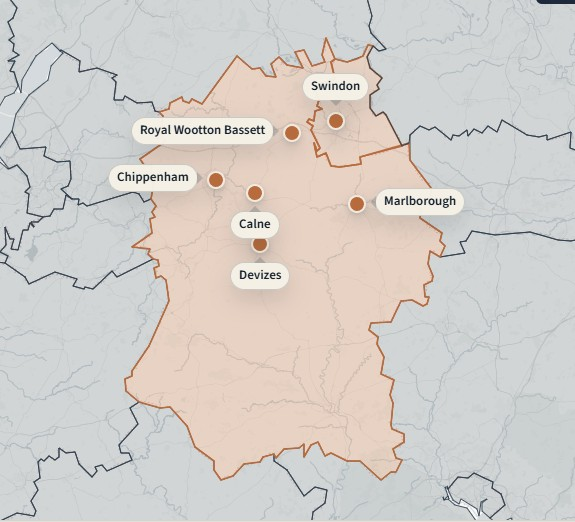
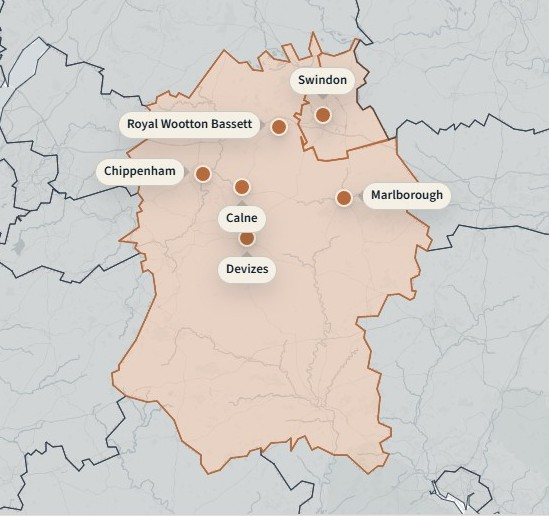
images

diff --git a/sites/lee-morgan-heating-and-plumbing-ltd/css/styles.css b/sites/lee-morgan-heating-and-plumbing-ltd/css/styles.css
@@ -625,8 +625,9 @@ body.nav-open .nav-drawer {
 }
 .coverage-media img {
   width: 100%;
-  aspect-ratio: 16 / 9;
-  object-fit: cover;
+  height: auto;
+  aspect-ratio: auto;
+  object-fit: contain;
 }
 
 /* Dark CTA */
